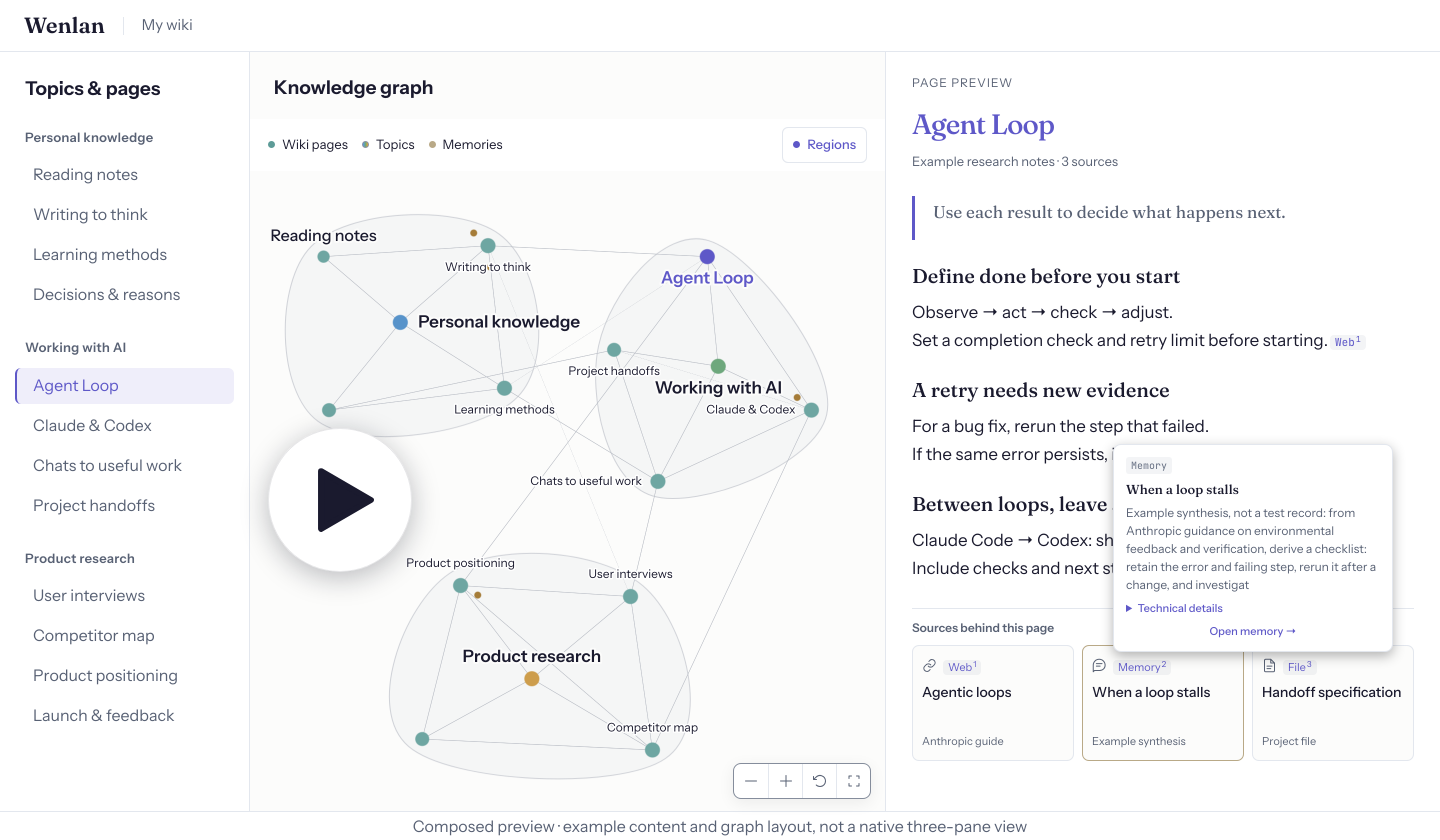
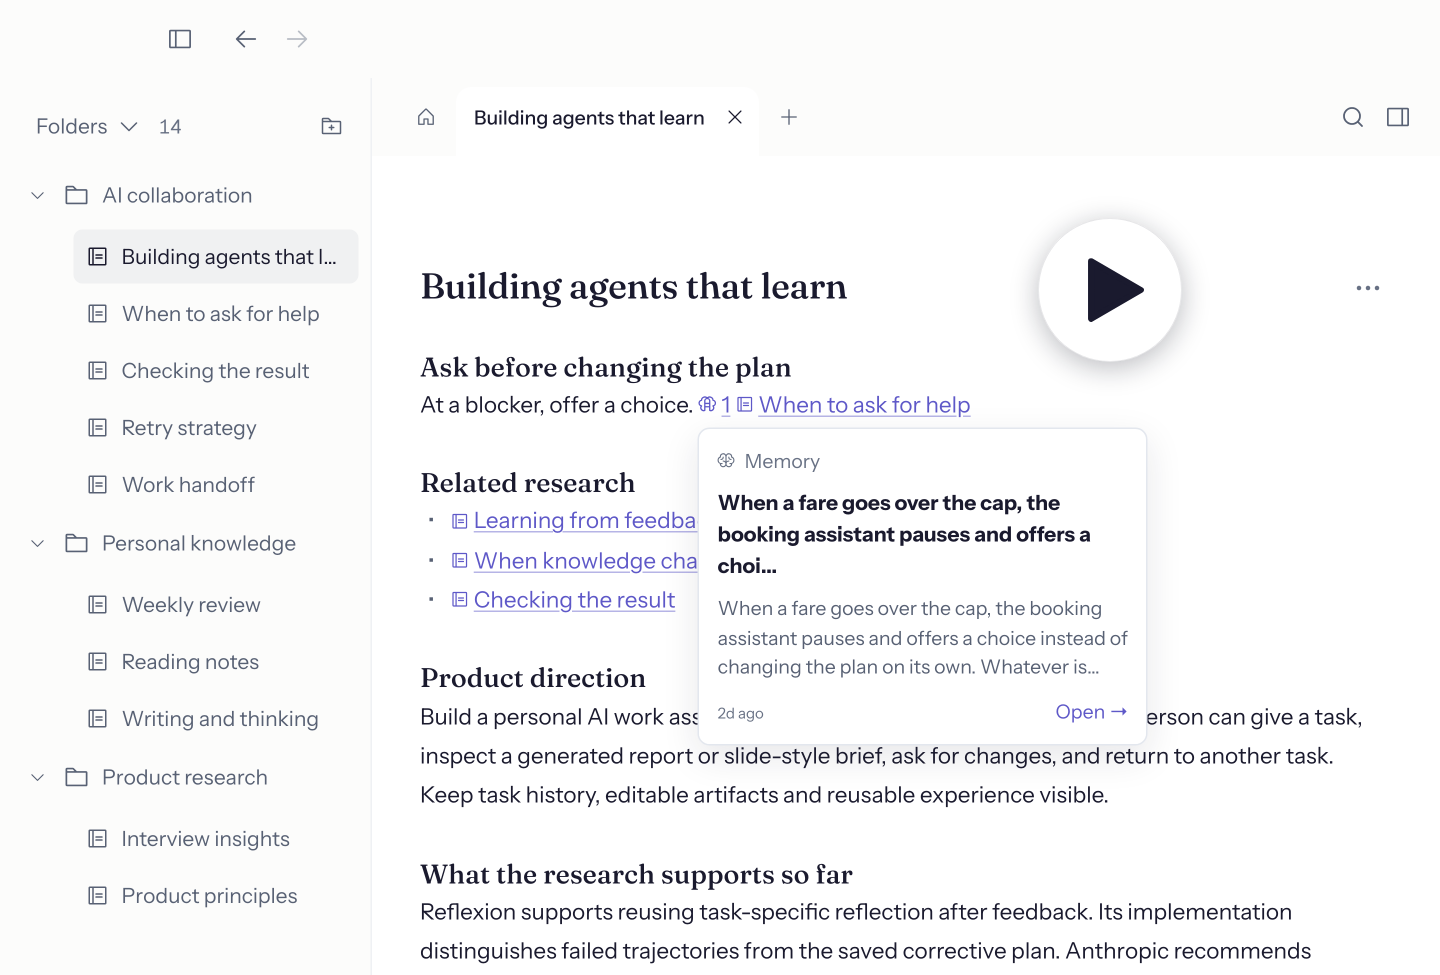
docs(readme): name the Rust and Tauri stack, app languages and Homebrew; library-view video covers (en, zh-Hant)
The covers are real captures of the reader with a multi-topic sidebar and
the memory card open, matching the website's personal library. zh-Hans
and es-ES follow once en and zh-Hant are settled.

Claude-Session: https://claude.ai/code/session_018iGeuxfuZJHs7sMV7fbdBT

diff --git a/README.md b/README.md
@@ -69,7 +69,9 @@ Save your material in Wenlan so your everyday AI tools can use it to answer ques
 
 [Download the desktop app](https://github.com/wenlan-app/wenlan/releases/latest) (macOS Apple Silicon or Windows x64), install it, and open it.
 
-Prefer the terminal? [Use Wenlan through the CLI or AI tools](docs/setup-and-data.md#installation).
+The app is in English, 简体中文, and 繁體中文.
+
+Prefer the terminal? On a Mac, run `npx -y wenlan setup`, or `brew install 7xuanlu/tap/wenlan` and then `wenlan setup`. For Linux and Windows, see the [CLI install guide](docs/setup-and-data.md#installation).
 
 ### 2. Create a page or import existing material
 
@@ -269,6 +271,8 @@ Turn on **Web access** in Settings to let supported web AI clients such as Claud
 ## Architecture
 
 **One local knowledge base.** App, CLI, and connected AI tools read and write through Wenlan’s local service. Pages are Markdown files; memories, relationships, and search indexes live in local libSQL.
+
+**Built with** Rust for the local service, CLI, and MCP server, and Tauri with React and TypeScript for the desktop app.
 
 <p align="center">
   <img src="./docs/assets/wenlan-architecture.png" alt="Architecture overview: App and AI tools share a local knowledge base, with optional background enrichment models." width="100%">

diff --git a/README.es-ES.md b/README.es-ES.md
@@ -1,4 +1,4 @@
-<!-- README_SYNC: source=README.md sha256=1b4d754473a5c3b209934dea7d8e6c5c2d7eb2261276cc475e612fb736e396c1 -->
+<!-- README_SYNC: source=README.md sha256=80961dae786df638c5a12ac479764bf2d58791de706122bba2e190aca9f8dd0a -->
 
 <p align="center">
   <picture>

diff --git a/README.zh-Hans.md b/README.zh-Hans.md
@@ -1,4 +1,4 @@
-<!-- README_SYNC: source=README.md sha256=1b4d754473a5c3b209934dea7d8e6c5c2d7eb2261276cc475e612fb736e396c1 -->
+<!-- README_SYNC: source=README.md sha256=80961dae786df638c5a12ac479764bf2d58791de706122bba2e190aca9f8dd0a -->
 
 <p align="center">
   <picture>
